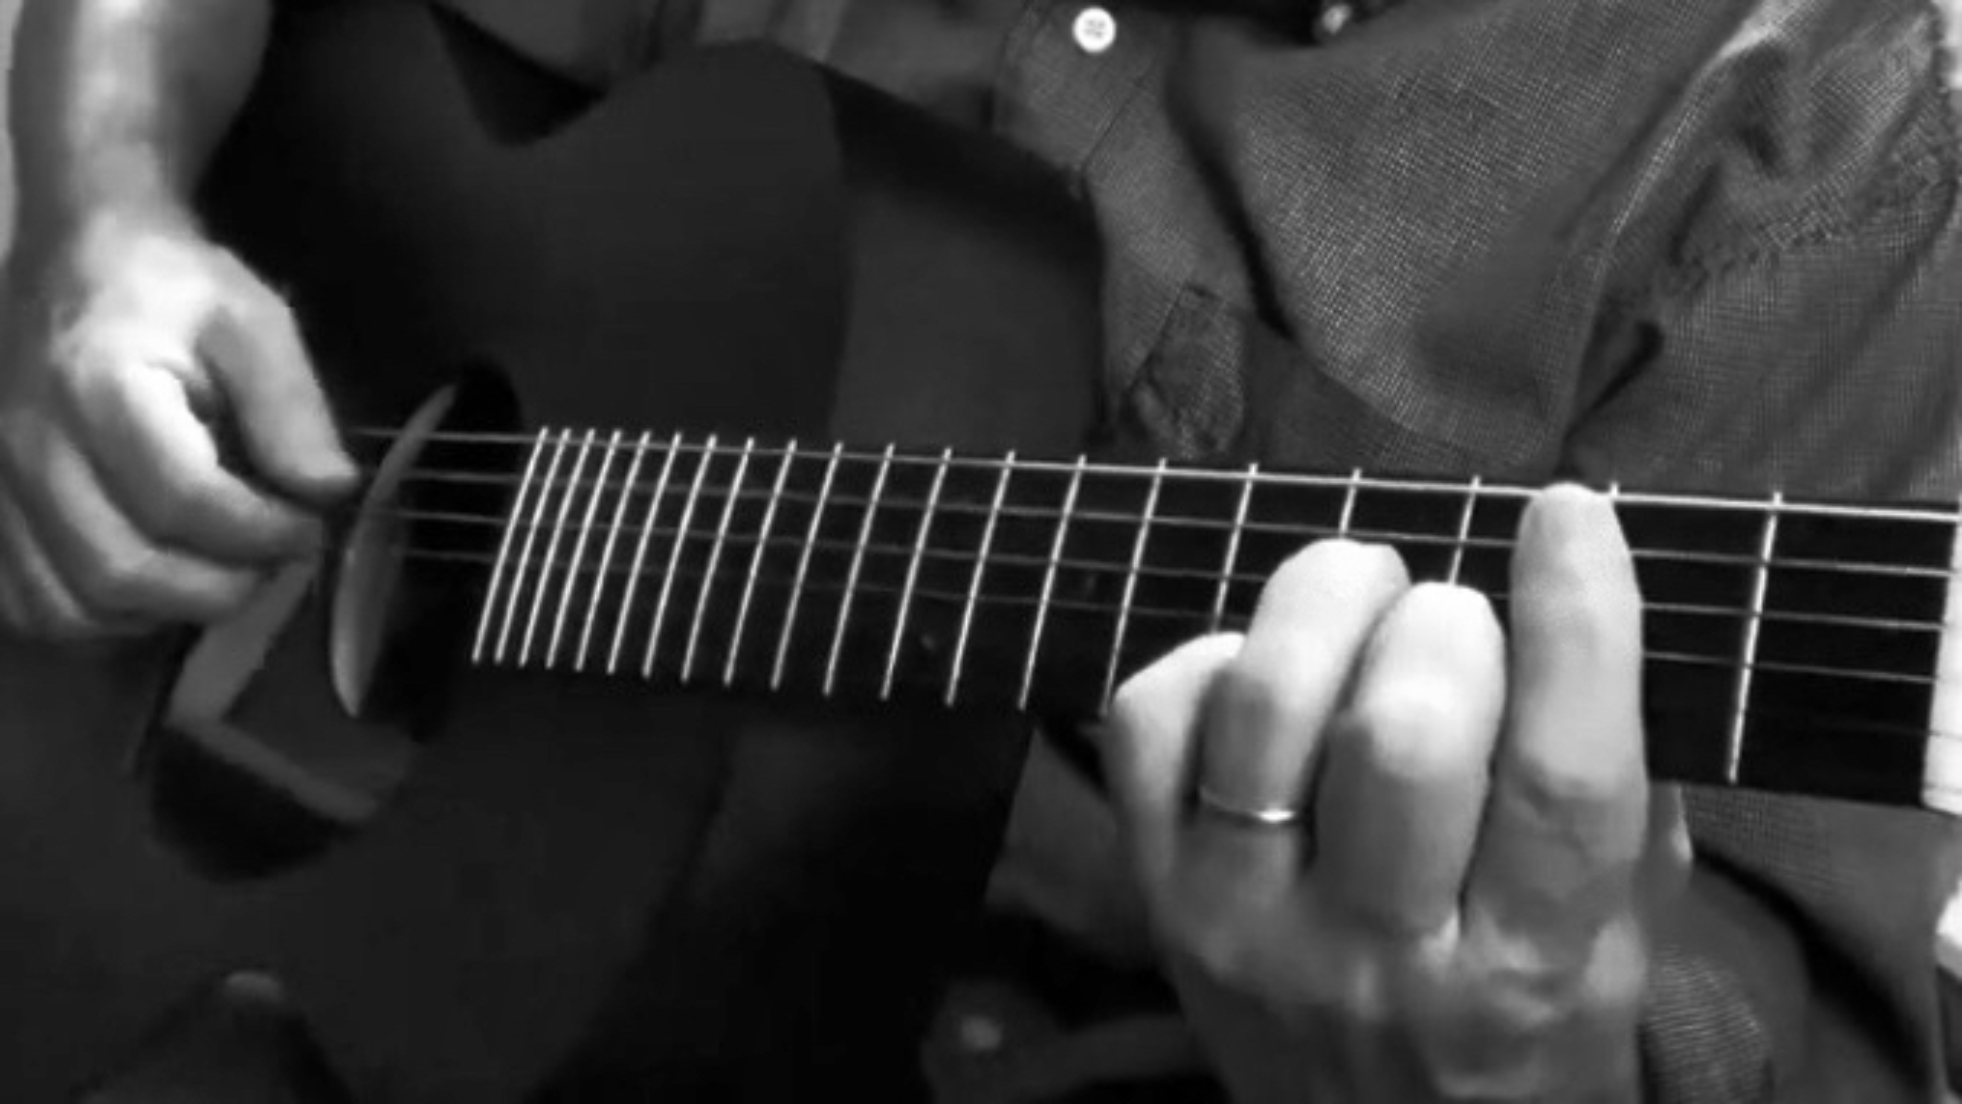
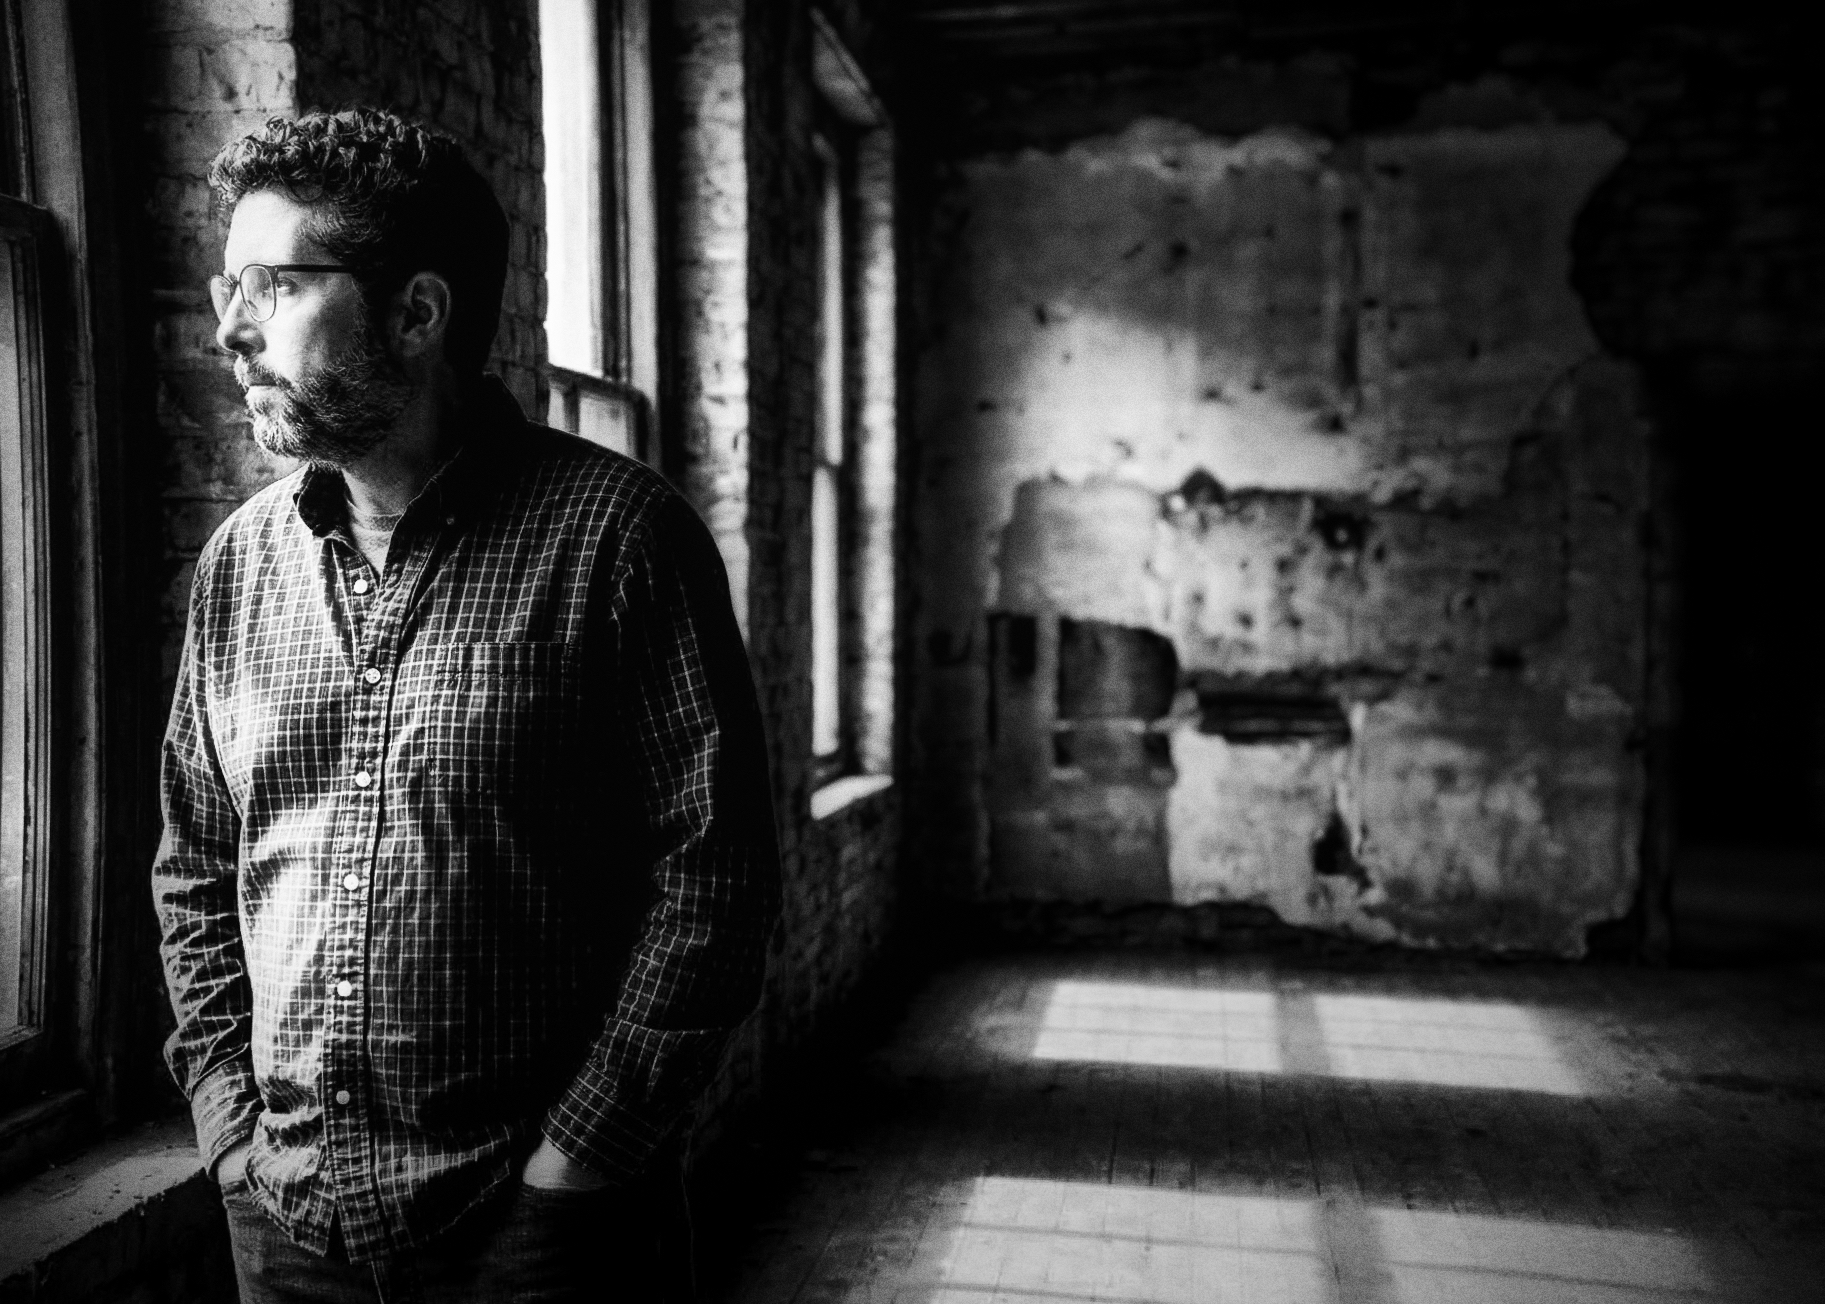
home page updates

diff --git a/index.html b/index.html
@@ -4,9 +4,9 @@
         <meta name="google-site-verification" content="XvS-53lV37C7xkpcdTfdTd8bYN-ckeReoRhp-swb48s">
 
 
-<meta name="description" content="Wayne Cater is a Nashville-based singer-songwriter, multi-instrumentalist, watercolor artist, software developer, and author of the children&#39;s book Looking For Friends In My Backyard.">
+<meta name="description" content="Wayne Cater is a Nashville-based software developer, singer-songwriter, multi-instrumentalist, watercolor artist, and author of the children&#39;s book Looking For Friends In My Backyard.">
 <meta property="og:title" content="Wayne Cater">
-<meta property="og:description" content="Wayne Cater is a Nashville-based singer-songwriter, multi-instrumentalist, watercolor artist, software developer, and author of the children&#39;s book Looking For Friends In My Backyard.">
+<meta property="og:description" content="Wayne Cater is a Nashville-based software developer, singer-songwriter, multi-instrumentalist, watercolor artist, and author of the children&#39;s book Looking For Friends In My Backyard.">
 <meta property="og:url" content="https://waynecater.com/">
 <meta property="og:type" content="website">
 
@@ -212,11 +212,11 @@
             <h1>Wayne Cater</h1>
             <h2></h2>
             <div class="hero-bio-group">
-                <div class="hero-bio"><p>Welcome! I&rsquo;m Wayne Cater — a Nashville-based creative into songwriting and playing multiple instruments, watercolor art, and software development. I write and record original music, share art and photography, and occasionally write about books, technology, and life. Browse around and enjoy!</p>
+                <div class="hero-bio"><p>Welcome! I&rsquo;m Wayne Cater — a Nashville-based creative into software development, songwriting and playing multiple instruments, and watercolor art. I write and record original music, share art and photography, and occasionally write about books, technology, and life. Browse around and enjoy!</p>
 </div>
             </div>
         </div>
-        <div class="hero-bio-mobile"><p>Welcome! I&rsquo;m Wayne Cater — a Nashville-based creative into songwriting and playing multiple instruments, watercolor art, and software development. I write and record original music, share art and photography, and occasionally write about books, technology, and life. Browse around and enjoy!</p>
+        <div class="hero-bio-mobile"><p>Welcome! I&rsquo;m Wayne Cater — a Nashville-based creative into software development, songwriting and playing multiple instruments, and watercolor art. I write and record original music, share art and photography, and occasionally write about books, technology, and life. Browse around and enjoy!</p>
 </div>
     </div>
 </div>

diff --git a/privacy/dailystepcount/index.html b/privacy/dailystepcount/index.html
@@ -4,9 +4,9 @@
         
 
 
-<meta name="description" content="Wayne Cater is a Nashville-based singer-songwriter, multi-instrumentalist, watercolor artist, software developer, and author of the children&#39;s book Looking For Friends In My Backyard.">
+<meta name="description" content="Wayne Cater is a Nashville-based software developer, singer-songwriter, multi-instrumentalist, watercolor artist, and author of the children&#39;s book Looking For Friends In My Backyard.">
 <meta property="og:title" content="Privacy Policy for DailyStepCount">
-<meta property="og:description" content="Wayne Cater is a Nashville-based singer-songwriter, multi-instrumentalist, watercolor artist, software developer, and author of the children&#39;s book Looking For Friends In My Backyard.">
+<meta property="og:description" content="Wayne Cater is a Nashville-based software developer, singer-songwriter, multi-instrumentalist, watercolor artist, and author of the children&#39;s book Looking For Friends In My Backyard.">
 <meta property="og:url" content="https://waynecater.com/privacy/dailystepcount/">
 <meta property="og:type" content="article">
 
@@ -20,7 +20,7 @@
   "@context": "https://schema.org",
   "@type": "BlogPosting",
   "headline": "\"Privacy Policy for DailyStepCount\"",
-  "description": "\"Wayne Cater is a Nashville-based singer-songwriter, multi-instrumentalist, watercolor artist, software developer, and author of the children's book Looking For Friends In My Backyard.\"",
+  "description": "\"Wayne Cater is a Nashville-based software developer, singer-songwriter, multi-instrumentalist, watercolor artist, and author of the children's book Looking For Friends In My Backyard.\"",
   "url": "https:\/\/waynecater.com\/privacy\/dailystepcount\/",
   "datePublished": "0001-01-01",
   "dateModified": "0001-01-01",

diff --git a/privacy/roadsignbingo/index.html b/privacy/roadsignbingo/index.html
@@ -4,9 +4,9 @@
         
 
 
-<meta name="description" content="Wayne Cater is a Nashville-based singer-songwriter, multi-instrumentalist, watercolor artist, software developer, and author of the children&#39;s book Looking For Friends In My Backyard.">
+<meta name="description" content="Wayne Cater is a Nashville-based software developer, singer-songwriter, multi-instrumentalist, watercolor artist, and author of the children&#39;s book Looking For Friends In My Backyard.">
 <meta property="og:title" content="Privacy Policy for Road Sign Bingo">
-<meta property="og:description" content="Wayne Cater is a Nashville-based singer-songwriter, multi-instrumentalist, watercolor artist, software developer, and author of the children&#39;s book Looking For Friends In My Backyard.">
+<meta property="og:description" content="Wayne Cater is a Nashville-based software developer, singer-songwriter, multi-instrumentalist, watercolor artist, and author of the children&#39;s book Looking For Friends In My Backyard.">
 <meta property="og:url" content="https://waynecater.com/privacy/roadsignbingo/">
 <meta property="og:type" content="article">
 
@@ -20,7 +20,7 @@
   "@context": "https://schema.org",
   "@type": "BlogPosting",
   "headline": "\"Privacy Policy for Road Sign Bingo\"",
-  "description": "\"Wayne Cater is a Nashville-based singer-songwriter, multi-instrumentalist, watercolor artist, software developer, and author of the children's book Looking For Friends In My Backyard.\"",
+  "description": "\"Wayne Cater is a Nashville-based software developer, singer-songwriter, multi-instrumentalist, watercolor artist, and author of the children's book Looking For Friends In My Backyard.\"",
   "url": "https:\/\/waynecater.com\/privacy\/roadsignbingo\/",
   "datePublished": "0001-01-01",
   "dateModified": "0001-01-01",

diff --git a/privacy/typothegame/index.html b/privacy/typothegame/index.html
@@ -4,9 +4,9 @@
         
 
 
-<meta name="description" content="Wayne Cater is a Nashville-based singer-songwriter, multi-instrumentalist, watercolor artist, software developer, and author of the children&#39;s book Looking For Friends In My Backyard.">
+<meta name="description" content="Wayne Cater is a Nashville-based software developer, singer-songwriter, multi-instrumentalist, watercolor artist, and author of the children&#39;s book Looking For Friends In My Backyard.">
 <meta property="og:title" content="Privacy Policy for TypoTheGame">
-<meta property="og:description" content="Wayne Cater is a Nashville-based singer-songwriter, multi-instrumentalist, watercolor artist, software developer, and author of the children&#39;s book Looking For Friends In My Backyard.">
+<meta property="og:description" content="Wayne Cater is a Nashville-based software developer, singer-songwriter, multi-instrumentalist, watercolor artist, and author of the children&#39;s book Looking For Friends In My Backyard.">
 <meta property="og:url" content="https://waynecater.com/privacy/typothegame/">
 <meta property="og:type" content="article">
 
@@ -20,7 +20,7 @@
   "@context": "https://schema.org",
   "@type": "BlogPosting",
   "headline": "\"Privacy Policy for TypoTheGame\"",
-  "description": "\"Wayne Cater is a Nashville-based singer-songwriter, multi-instrumentalist, watercolor artist, software developer, and author of the children's book Looking For Friends In My Backyard.\"",
+  "description": "\"Wayne Cater is a Nashville-based software developer, singer-songwriter, multi-instrumentalist, watercolor artist, and author of the children's book Looking For Friends In My Backyard.\"",
   "url": "https:\/\/waynecater.com\/privacy\/typothegame\/",
   "datePublished": "0001-01-01",
   "dateModified": "0001-01-01",

diff --git a/search/index.html b/search/index.html
@@ -4,9 +4,9 @@
         
 <meta name="robots" content="noindex, follow">
 
-<meta name="description" content="Wayne Cater is a Nashville-based singer-songwriter, multi-instrumentalist, watercolor artist, software developer, and author of the children&#39;s book Looking For Friends In My Backyard.">
+<meta name="description" content="Wayne Cater is a Nashville-based software developer, singer-songwriter, multi-instrumentalist, watercolor artist, and author of the children&#39;s book Looking For Friends In My Backyard.">
 <meta property="og:title" content="Search">
-<meta property="og:description" content="Wayne Cater is a Nashville-based singer-songwriter, multi-instrumentalist, watercolor artist, software developer, and author of the children&#39;s book Looking For Friends In My Backyard.">
+<meta property="og:description" content="Wayne Cater is a Nashville-based software developer, singer-songwriter, multi-instrumentalist, watercolor artist, and author of the children&#39;s book Looking For Friends In My Backyard.">
 <meta property="og:url" content="https://waynecater.com/search/">
 <meta property="og:type" content="article">
 
@@ -20,7 +20,7 @@
   "@context": "https://schema.org",
   "@type": "BlogPosting",
   "headline": "\"Search\"",
-  "description": "\"Wayne Cater is a Nashville-based singer-songwriter, multi-instrumentalist, watercolor artist, software developer, and author of the children's book Looking For Friends In My Backyard.\"",
+  "description": "\"Wayne Cater is a Nashville-based software developer, singer-songwriter, multi-instrumentalist, watercolor artist, and author of the children's book Looking For Friends In My Backyard.\"",
   "url": "https:\/\/waynecater.com\/search\/",
   "datePublished": "0001-01-01",
   "dateModified": "0001-01-01",

diff --git a/404.html b/404.html
@@ -4,9 +4,9 @@
         
 
 
-<meta name="description" content="Wayne Cater is a Nashville-based singer-songwriter, multi-instrumentalist, watercolor artist, software developer, and author of the children&#39;s book Looking For Friends In My Backyard.">
+<meta name="description" content="Wayne Cater is a Nashville-based software developer, singer-songwriter, multi-instrumentalist, watercolor artist, and author of the children&#39;s book Looking For Friends In My Backyard.">
 <meta property="og:title" content="404 Page not found">
-<meta property="og:description" content="Wayne Cater is a Nashville-based singer-songwriter, multi-instrumentalist, watercolor artist, software developer, and author of the children&#39;s book Looking For Friends In My Backyard.">
+<meta property="og:description" content="Wayne Cater is a Nashville-based software developer, singer-songwriter, multi-instrumentalist, watercolor artist, and author of the children&#39;s book Looking For Friends In My Backyard.">
 <meta property="og:url" content="https://waynecater.com/404.html">
 <meta property="og:type" content="website">
 

diff --git a/posts/index.html b/posts/index.html
@@ -4,9 +4,9 @@
         
 
 
-<meta name="description" content="Wayne Cater is a Nashville-based singer-songwriter, multi-instrumentalist, watercolor artist, software developer, and author of the children&#39;s book Looking For Friends In My Backyard.">
+<meta name="description" content="Wayne Cater is a Nashville-based software developer, singer-songwriter, multi-instrumentalist, watercolor artist, and author of the children&#39;s book Looking For Friends In My Backyard.">
 <meta property="og:title" content="Posts">
-<meta property="og:description" content="Wayne Cater is a Nashville-based singer-songwriter, multi-instrumentalist, watercolor artist, software developer, and author of the children&#39;s book Looking For Friends In My Backyard.">
+<meta property="og:description" content="Wayne Cater is a Nashville-based software developer, singer-songwriter, multi-instrumentalist, watercolor artist, and author of the children&#39;s book Looking For Friends In My Backyard.">
 <meta property="og:url" content="https://waynecater.com/posts/">
 <meta property="og:type" content="website">
 

diff --git a/posts/page/2/index.html b/posts/page/2/index.html
@@ -4,9 +4,9 @@
         
 
 
-<meta name="description" content="Wayne Cater is a Nashville-based singer-songwriter, multi-instrumentalist, watercolor artist, software developer, and author of the children&#39;s book Looking For Friends In My Backyard.">
+<meta name="description" content="Wayne Cater is a Nashville-based software developer, singer-songwriter, multi-instrumentalist, watercolor artist, and author of the children&#39;s book Looking For Friends In My Backyard.">
 <meta property="og:title" content="Posts">
-<meta property="og:description" content="Wayne Cater is a Nashville-based singer-songwriter, multi-instrumentalist, watercolor artist, software developer, and author of the children&#39;s book Looking For Friends In My Backyard.">
+<meta property="og:description" content="Wayne Cater is a Nashville-based software developer, singer-songwriter, multi-instrumentalist, watercolor artist, and author of the children&#39;s book Looking For Friends In My Backyard.">
 <meta property="og:url" content="https://waynecater.com/posts/">
 <meta property="og:type" content="website">
 

diff --git a/posts/page/3/index.html b/posts/page/3/index.html
@@ -4,9 +4,9 @@
         
 
 
-<meta name="description" content="Wayne Cater is a Nashville-based singer-songwriter, multi-instrumentalist, watercolor artist, software developer, and author of the children&#39;s book Looking For Friends In My Backyard.">
+<meta name="description" content="Wayne Cater is a Nashville-based software developer, singer-songwriter, multi-instrumentalist, watercolor artist, and author of the children&#39;s book Looking For Friends In My Backyard.">
 <meta property="og:title" content="Posts">
-<meta property="og:description" content="Wayne Cater is a Nashville-based singer-songwriter, multi-instrumentalist, watercolor artist, software developer, and author of the children&#39;s book Looking For Friends In My Backyard.">
+<meta property="og:description" content="Wayne Cater is a Nashville-based software developer, singer-songwriter, multi-instrumentalist, watercolor artist, and author of the children&#39;s book Looking For Friends In My Backyard.">
 <meta property="og:url" content="https://waynecater.com/posts/">
 <meta property="og:type" content="website">
 

diff --git a/posts/page/4/index.html b/posts/page/4/index.html
@@ -4,9 +4,9 @@
         
 
 
-<meta name="description" content="Wayne Cater is a Nashville-based singer-songwriter, multi-instrumentalist, watercolor artist, software developer, and author of the children&#39;s book Looking For Friends In My Backyard.">
+<meta name="description" content="Wayne Cater is a Nashville-based software developer, singer-songwriter, multi-instrumentalist, watercolor artist, and author of the children&#39;s book Looking For Friends In My Backyard.">
 <meta property="og:title" content="Posts">
-<meta property="og:description" content="Wayne Cater is a Nashville-based singer-songwriter, multi-instrumentalist, watercolor artist, software developer, and author of the children&#39;s book Looking For Friends In My Backyard.">
+<meta property="og:description" content="Wayne Cater is a Nashville-based software developer, singer-songwriter, multi-instrumentalist, watercolor artist, and author of the children&#39;s book Looking For Friends In My Backyard.">
 <meta property="og:url" content="https://waynecater.com/posts/">
 <meta property="og:type" content="website">
 

diff --git a/posts/page/5/index.html b/posts/page/5/index.html
@@ -4,9 +4,9 @@
         
 
 
-<meta name="description" content="Wayne Cater is a Nashville-based singer-songwriter, multi-instrumentalist, watercolor artist, software developer, and author of the children&#39;s book Looking For Friends In My Backyard.">
+<meta name="description" content="Wayne Cater is a Nashville-based software developer, singer-songwriter, multi-instrumentalist, watercolor artist, and author of the children&#39;s book Looking For Friends In My Backyard.">
 <meta property="og:title" content="Posts">
-<meta property="og:description" content="Wayne Cater is a Nashville-based singer-songwriter, multi-instrumentalist, watercolor artist, software developer, and author of the children&#39;s book Looking For Friends In My Backyard.">
+<meta property="og:description" content="Wayne Cater is a Nashville-based software developer, singer-songwriter, multi-instrumentalist, watercolor artist, and author of the children&#39;s book Looking For Friends In My Backyard.">
 <meta property="og:url" content="https://waynecater.com/posts/">
 <meta property="og:type" content="website">
 

diff --git a/privacy/index.html b/privacy/index.html
@@ -4,9 +4,9 @@
         
 
 
-<meta name="description" content="Wayne Cater is a Nashville-based singer-songwriter, multi-instrumentalist, watercolor artist, software developer, and author of the children&#39;s book Looking For Friends In My Backyard.">
+<meta name="description" content="Wayne Cater is a Nashville-based software developer, singer-songwriter, multi-instrumentalist, watercolor artist, and author of the children&#39;s book Looking For Friends In My Backyard.">
 <meta property="og:title" content="Privacies">
-<meta property="og:description" content="Wayne Cater is a Nashville-based singer-songwriter, multi-instrumentalist, watercolor artist, software developer, and author of the children&#39;s book Looking For Friends In My Backyard.">
+<meta property="og:description" content="Wayne Cater is a Nashville-based software developer, singer-songwriter, multi-instrumentalist, watercolor artist, and author of the children&#39;s book Looking For Friends In My Backyard.">
 <meta property="og:url" content="https://waynecater.com/privacy/">
 <meta property="og:type" content="website">
 